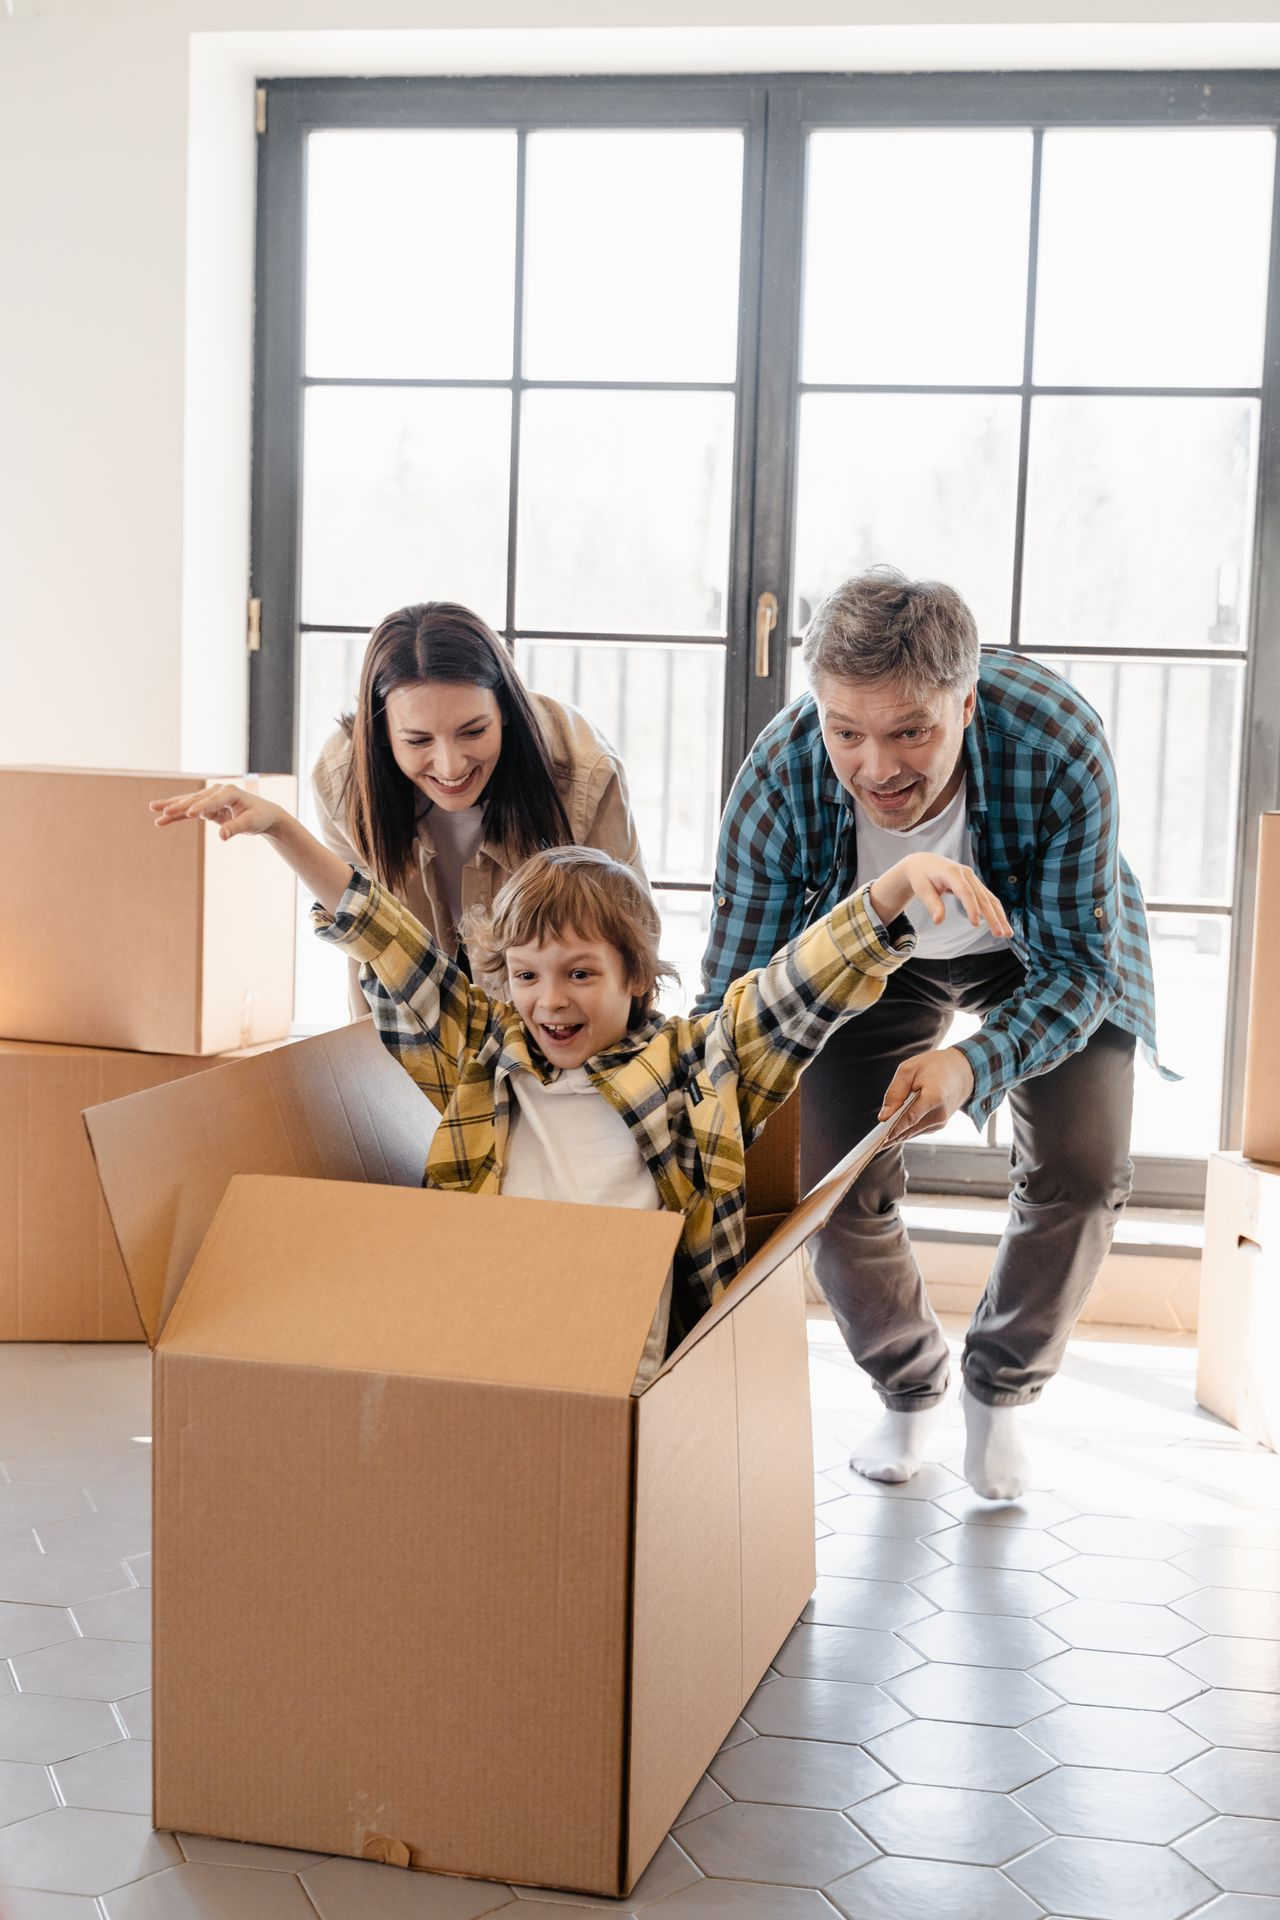
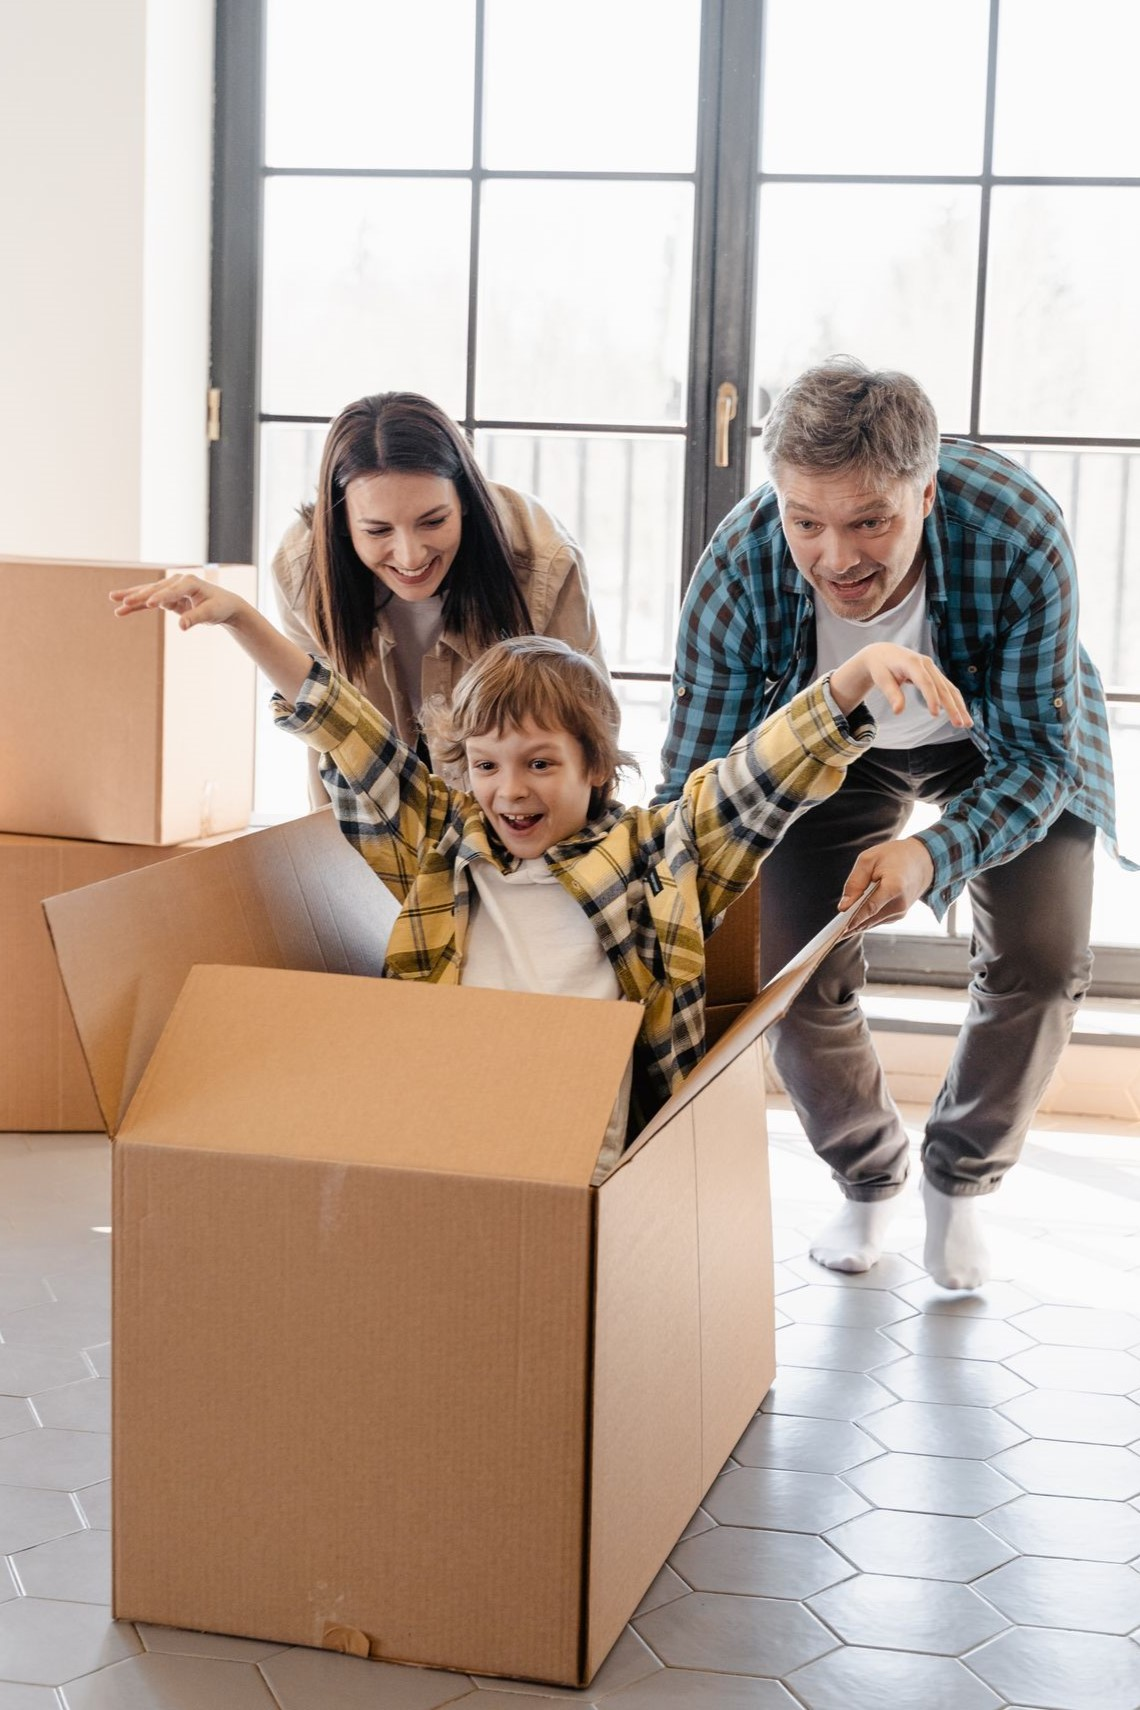
v2/9-04:32

diff --git a/components/Header/Header.js b/components/Header/Header.js
@@ -40,7 +40,7 @@ export function Header() {
                 width={310}
                 height={90}
                 alt="Logo"
-                className={`transition-all duration-300 max-w-[180px] sm:max-w-[270px] lg:max-w-[250px] ${isHomePage ? '' : ''} ${menuOpen ? 'opacity-0' : 'opacity-100'}`}
+                className={`transition-all duration-300 max-w-[220px] sm:max-w-[270px] lg:max-w-[250px] ${isHomePage ? '' : ''} ${menuOpen ? 'opacity-0' : 'opacity-100'}`}
               />
             </Link>
             <Navbar theme={isHomePage ? "light" : "dark"} />
@@ -61,14 +61,14 @@ export function Header() {
             {/* Botón Menú Hamburguesa (visible en móviles) */}
             <button
               onClick={handleMenuClick}
-              className={`lg:hidden relative z-50 hover:opacity-80 focus:outline-none ${isHomePage ? 'text-white' : 'text-gray-900'}`}
+              className={`lg:hidden relative z-50 hover:opacity-80 focus:outline-none`}
               aria-label="Menú"
               aria-expanded={menuOpen}
             >
               {menuOpen ? (
                 <X className="h-8 w-8 text-white" />
               ) : (
-                <Menu className={`h-8 w-8 ${isHomePage ? 'text-white' : 'text-gray-900'}`} />
+                <Menu className={`h-8 w-8 text-main-100`} />
               )}
             </button>
           </div>
@@ -87,9 +87,9 @@ export function Header() {
           <X className="h-8 w-8" />
         </button>
         <ul className="w-full px-8 text-center flex flex-col items-center justify-center h-full">
-          <li className="w-full mb-4">
-            <Link href="/" className="block py-3 text-2xl font-semibold text-white hover:text-white/80 transition-colors" onClick={closeMenu}>
-              Inicio
+          <li className="w-full mb-4 flex justify-center">
+            <Link href="/" className="block py-3 transition-colors" onClick={closeMenu}>
+              <Image src="/assets/logo1.png" width={220} height={70} alt="Inicio" className="mx-auto" />
             </Link>
           </li>
           <li className="w-full mt-6 mb-4">
